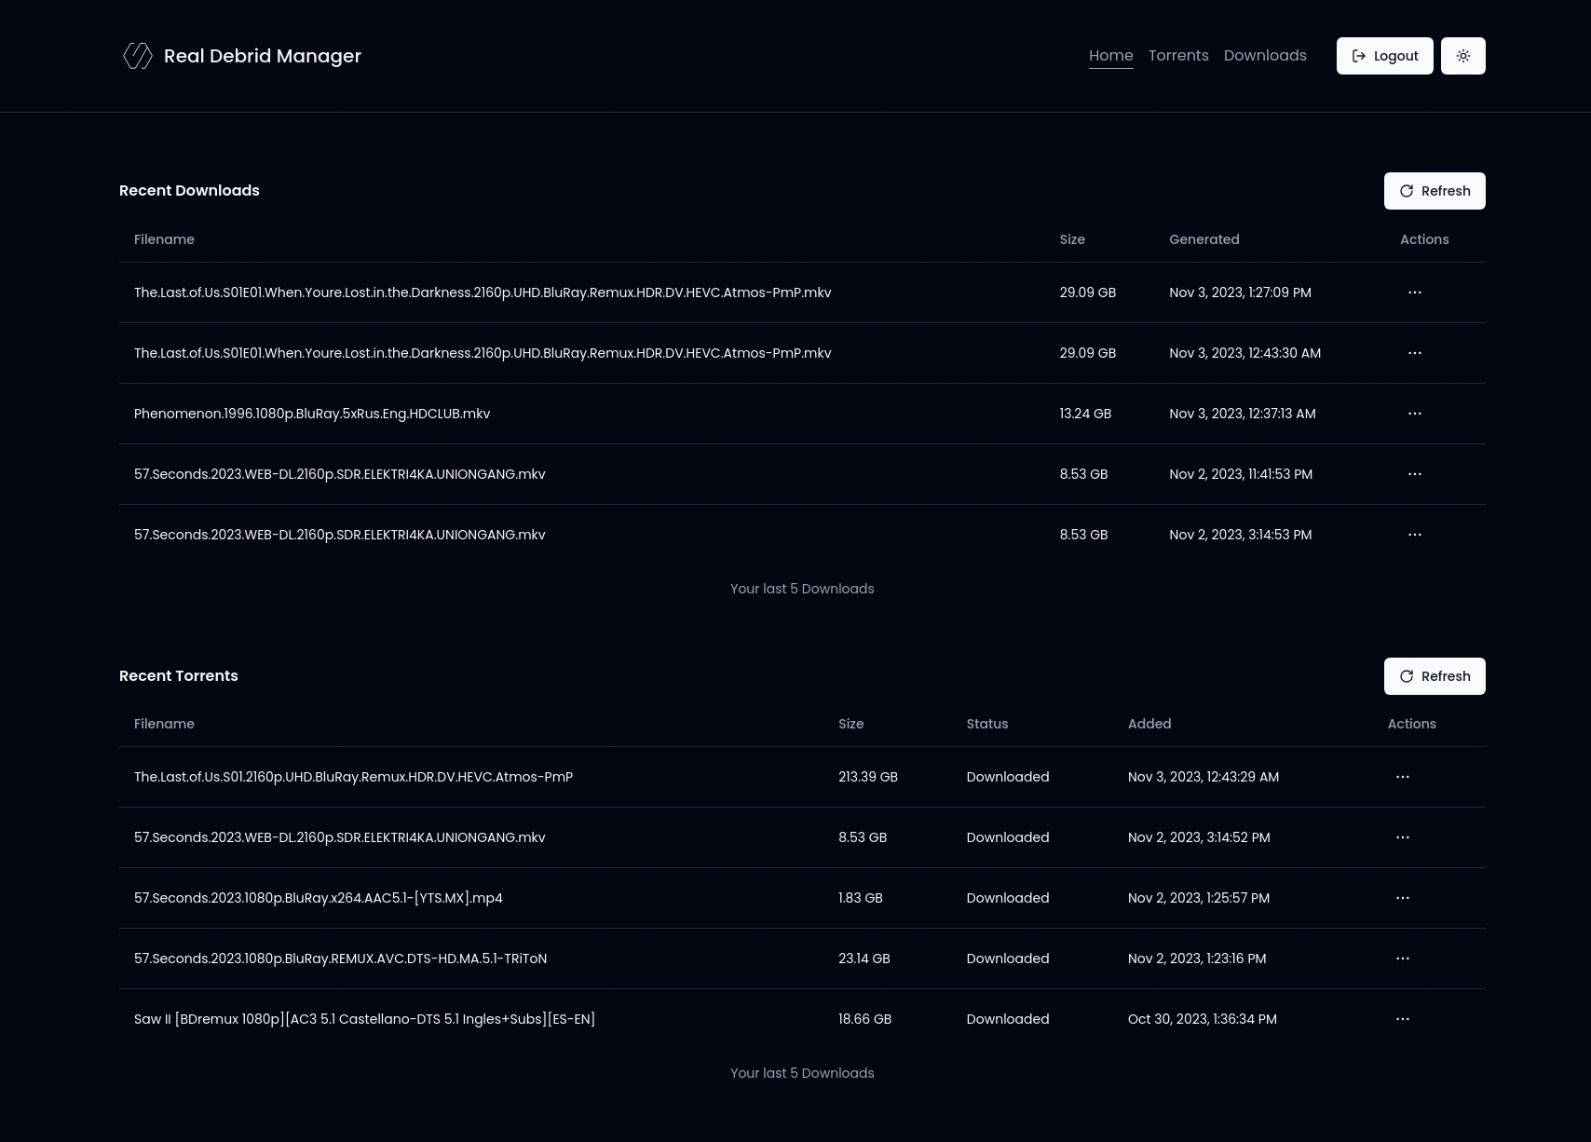
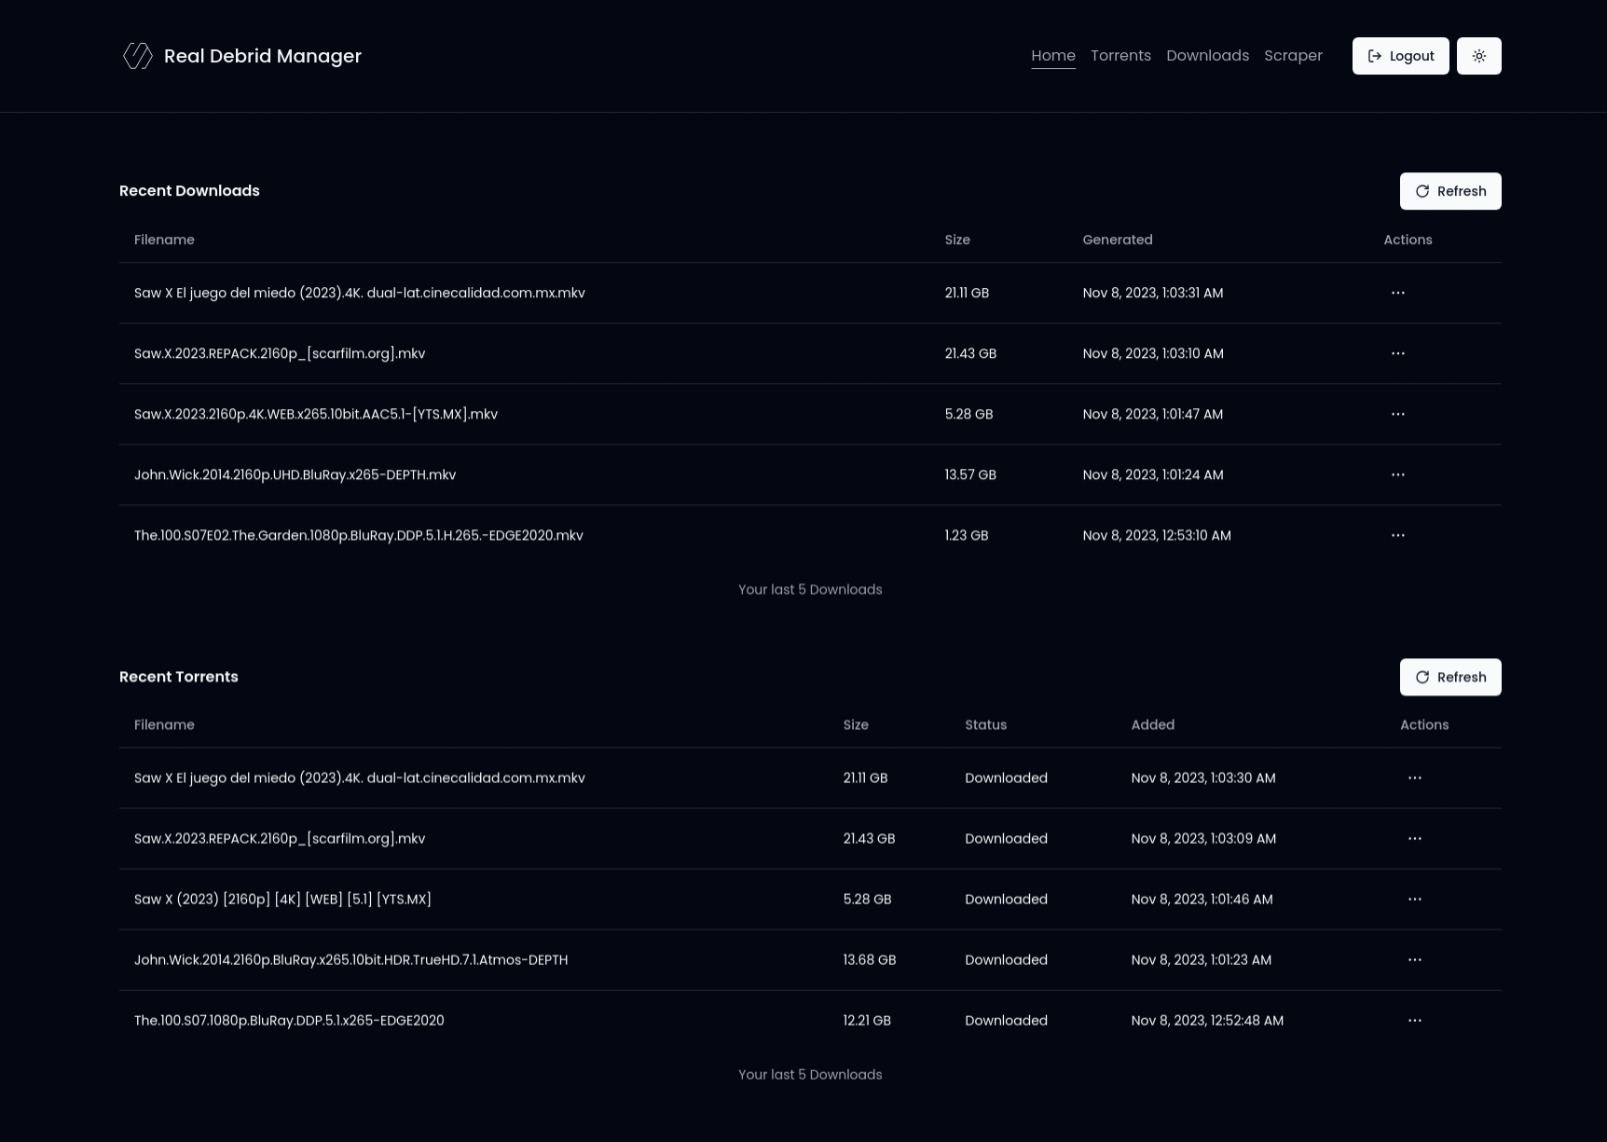
docs: Readme update to latest config and added screenshorts

diff --git a/README.md b/README.md
@@ -12,23 +12,44 @@ Aim of this project is to provide a simple interface to manage and search throug
     <figcaption>Dashboard Screenshot (This could be outdated)</figcaption>
 </figure>
 
+<figure>
+    <img src="./assets/app-torrents.png" alt="App Torrents">
+    <figcaption>Torrents Screenshot (This could be outdated)</figcaption>
+</figure>
+
+<figure>
+    <img src="./assets/app-downloads.png" alt="App Downloads">
+    <figcaption>Downloads Screenshot (This could be outdated)</figcaption>
+</figure>
+
+<figure>
+    <img src="./assets/app-scraper.png" alt="App Scraper">
+    <figcaption>Scraper Screenshot (This could be outdated)</figcaption>
+</figure>
+
+<figure>
+    <img src="./assets/app-scraper-result.png" alt="App Scraper Result">
+    <figcaption>Scraper Result Screenshot (This could be outdated)</figcaption>
+</figure>
+
 ## Features
 
 - View all your downloads and torrents
-- Search through your downloads and torrents (currently the app loads all the user torrents and downloads and then filters them locally)
-- Copy download links, delete, stream and get info on your downloads and torrents (Some of these features are not yet implemented)
-- Integrate download manager to bulk download files (Not yet implemented)
-- Add torrents through magnet links, hashes and imdb ids (Not yet implemented)
-- Look for dead download links and refresh them (Not yet implemented)
+- Search through your downloads and torrents
+- Copy download links, delete, stream and get info on your downloads and torrents
+- Added scraper to search for torrents and download links and add them to your Real Debrid.
+- Add torrents through magnet links and torrent files (Not yet implemented)
+- Look for dead download links and torrents and refresh them (Not yet implemented)
 
 ## Environment Variables
 
-To run this project, you will need to add the following environment variables to your .env file
+To run this project, you will need to add the following environment variables to your .env file. Just rename the .env.example file to .env.
 
 ```
 PUBLIC_BASE_URI="https://api.real-debrid.com/rest/1.0"
 PUBLIC_BASE_AUTH_URI="https://api.real-debrid.com"
 PUBLIC_CLIENT_ID="X245A4XAIBGVM"
+PUBLIC_TORRENTIO_BASE_URI="https://torrentio.strem.fun/qualityfilter=480p,other,scr,cam,unknown|debridoptions=nodownloadlinks|realdebrid="
 ```
 
 ## Developing
